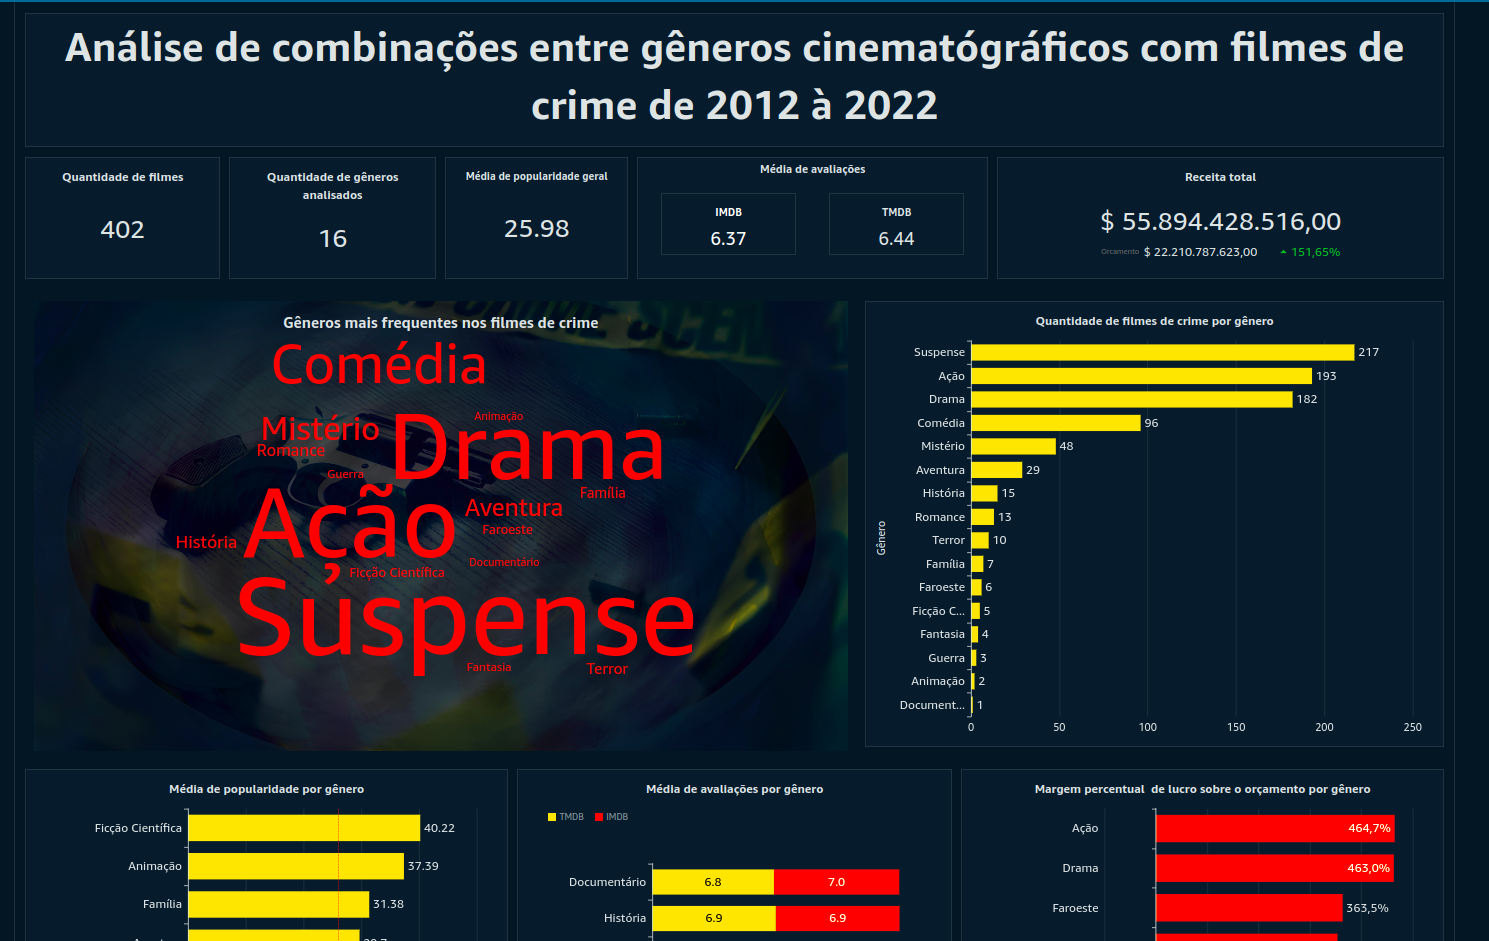
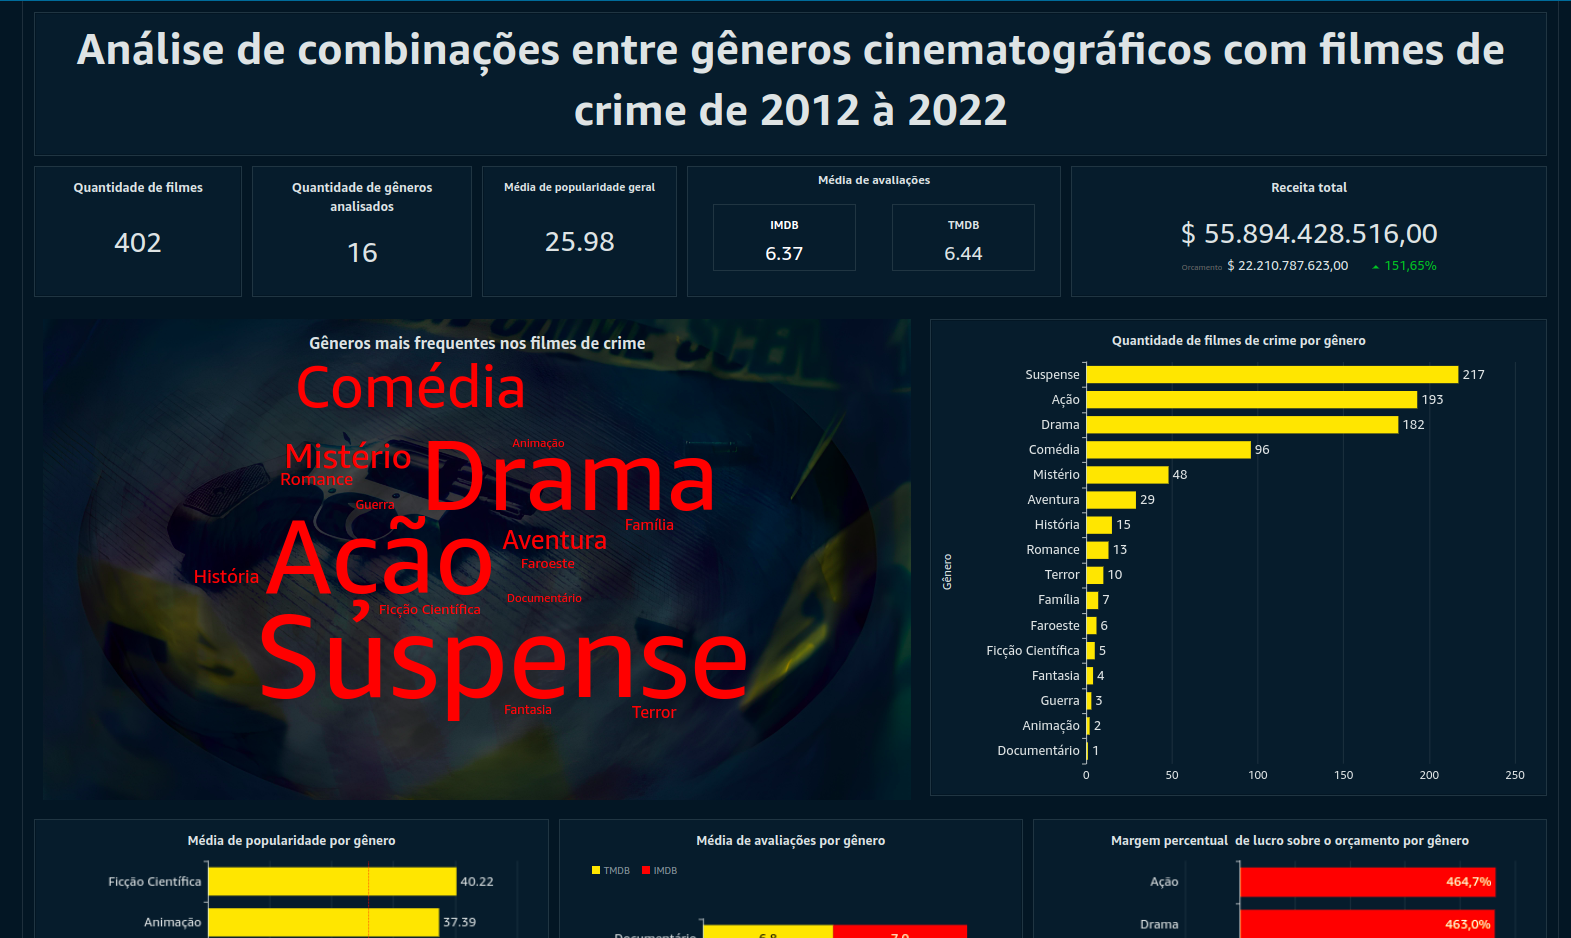
fix: correction of the evidences images

diff --git a/Sprint 10/Desafio/README.md b/Sprint 10/Desafio/README.md
@@ -94,9 +94,9 @@
 - Por fim, a dashboard ficou da seguinte forma:
   ![](Evidencias/dashboard_parte1.png)
   ![](Evidencias/dashboard_parte2.png)
-  ![](Evidencias/dahsboard_parte3.png)
+  ![](Evidencias/dashboard_parte3.png)
   ![](Evidencias/dashboard_parte4.png)
- - PDF da dashboard: [Evidencias/Analise_de_combinacoes_entre_generos_cinematograficos_com_filmes_de_crime_de_2012_a_2022.pdf](Evidencias/Analise_de_combinacoes_entre_generos_cinematograficos_com_filmes_de_crime_de_2012_a_2022.pdf.pdf)
+ - PDF da dashboard: [Evidencias/Analise_de_combinacoes_entre_generos_cinematograficos_com_filmes_de_crime_de_2012_a_2022.pdf](Evidencias/Analise_de_combinacoes_entre_generos_cinematograficos_com_filmes_de_crime_de_2012_a_2022.pdf)
 ### 4⃣ Insights analisados
 
 - Os gêneros que mais aparecem em filmes de crime são Suspense, Ação, Drama e Comédia, seguidos de Mistério e Aventura.
